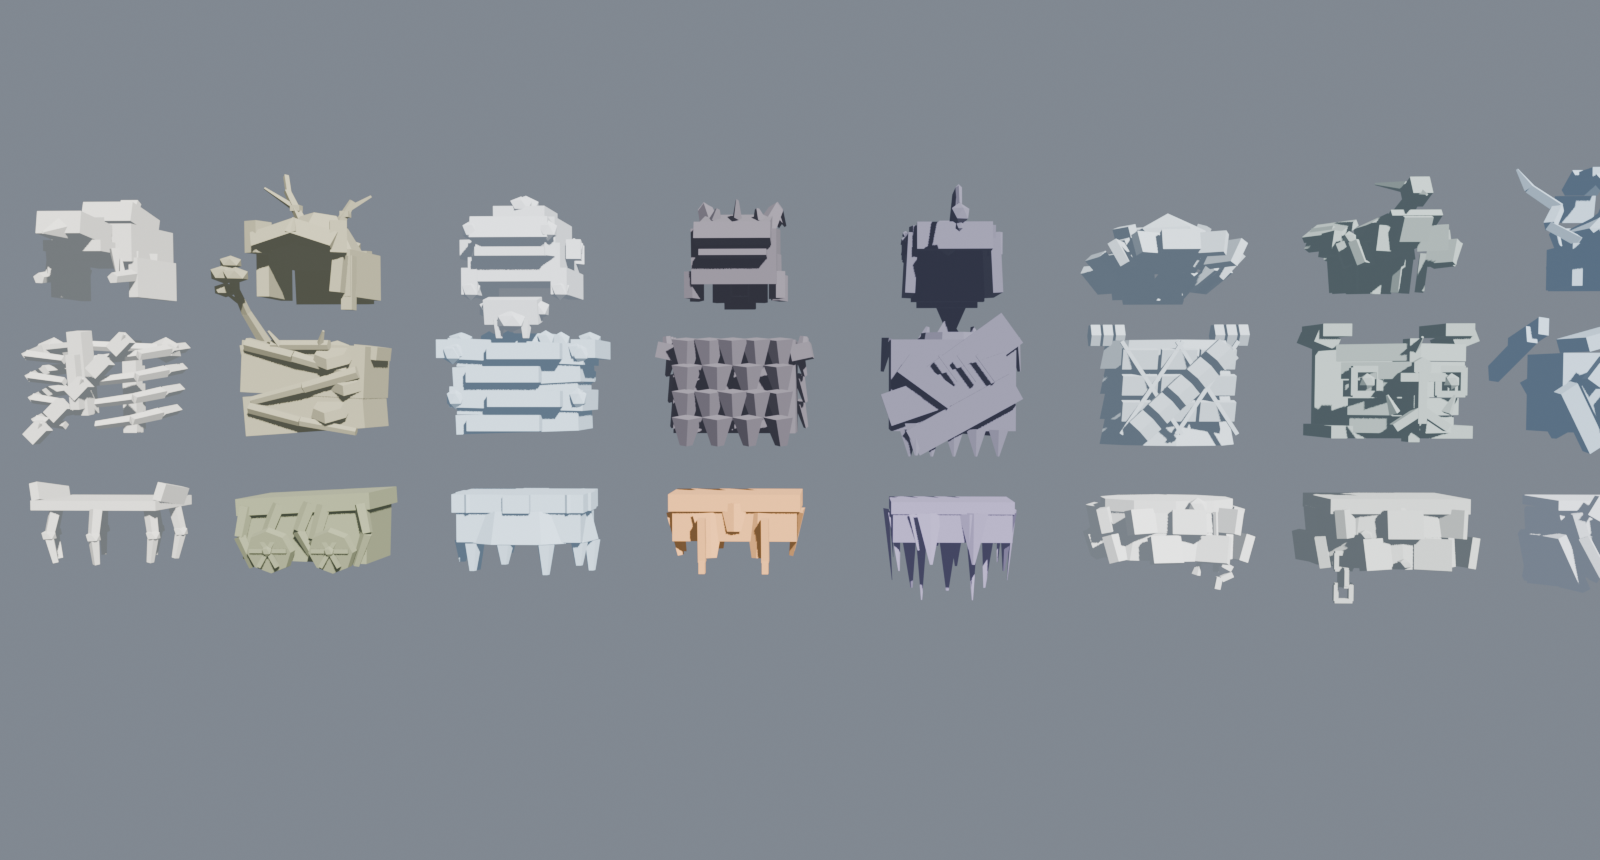
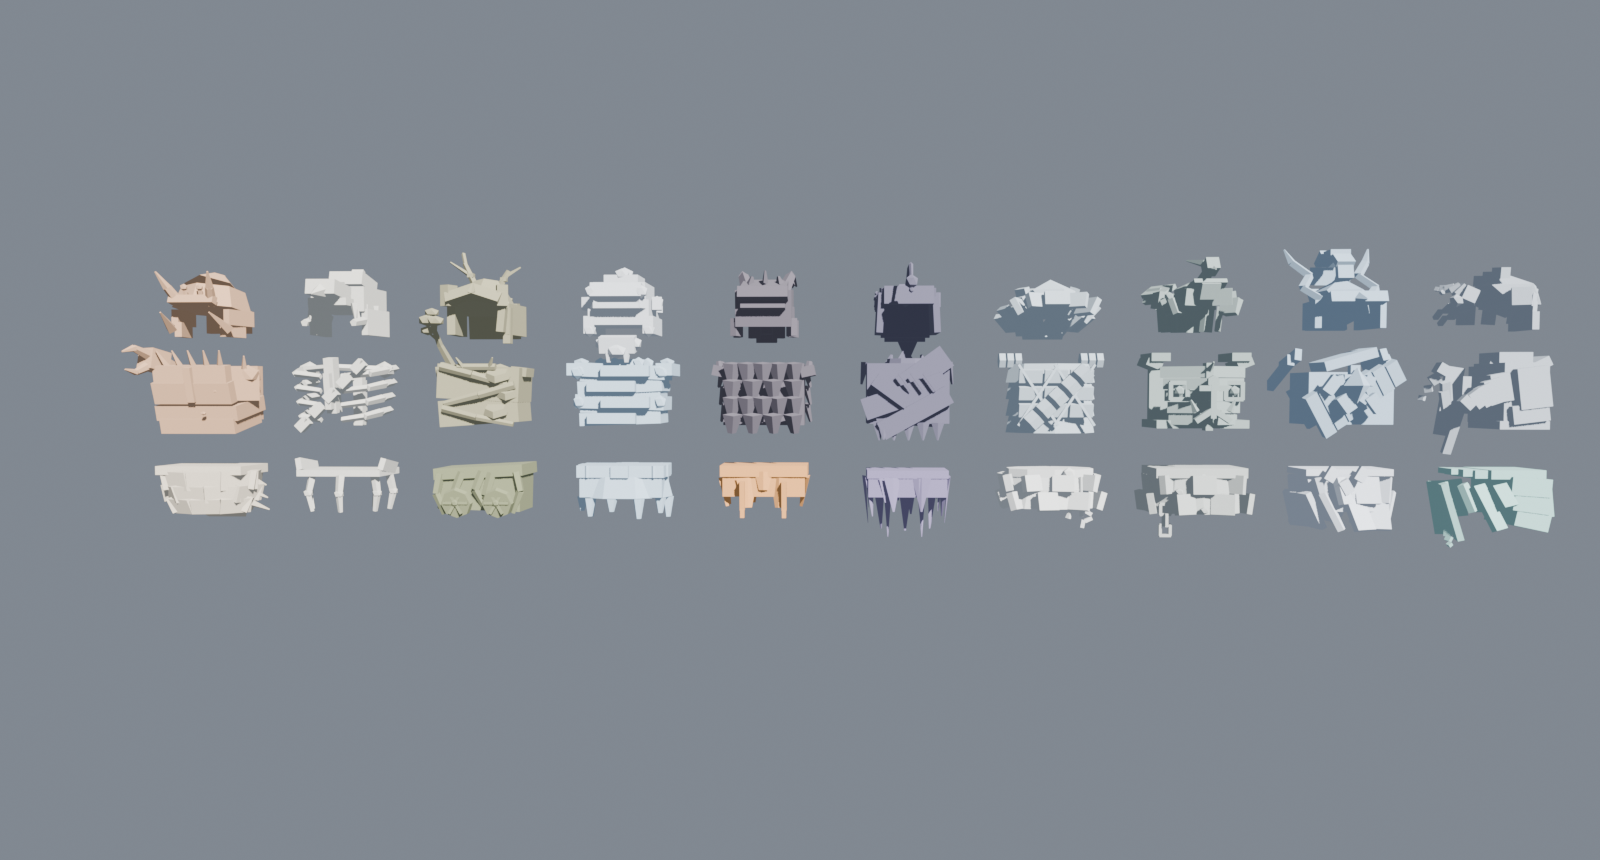
Armor: one canonical face box (measured, enforced) and a preview that shows all ten sets
Two follow-ups from the 10-set revamp, both in the contract owner's lane;
armor.glb is untouched (the rebuild came out byte-identical).

FACE BOX. Three different clearance rules were floating around and no set
satisfied all of them. Rather than pick by taste, measured the pack: every
one of the ten helms puts its front geometry in z 0.02..0.30 - a brow
overhang ABOVE the head's midline - and leaves the nose, mouth and chin as
open air. So the canonical rule is a midline rule, not an eye-band rule:
nothing solid where y <= -0.52, |x| <= 0.40, and -0.60 <= z <= 0.00.
Crests, brow facets and hanging lures above the line are explicitly fine
(they shade the face, which reads well); a plate crossing down over the
nose is not; cheek guards outboard of the central band and gorgets hanging
below the head are unaffected. check_faces() enforces it at build time -
it prints and does not throw, so a work-in-progress set still exports.

Conformance today: nine of ten clear. Stormcaller_Helm has ONE vert 0.10
below the line at (-0.2, -0.56, -0.1) - a hair of chin strap, worth a
nudge next time that set is open, not worth a rebuild.

PREVIEW FRAMING. Ten columns at 3.6-stud spacing span +/-16.2 studs while
lens 28 at 21 studs saw only +/-13.5, so the committed preview never
showed the outer sets. Now lens 23 at 26 studs; all ten columns and all
three rows are in frame.

Changed region(s): [[0.0, 0.1814, 1.0, 0.6953], [0.0, 0.3023, 0.0312, 0.3326]]

diff --git a/assets/armor_gen.py b/assets/armor_gen.py
@@ -29,9 +29,28 @@
 #     origin, a chest wraps a 2.0 x 1.6 x 1.0 UpperTorso, and the legs ring
 #     wraps a 2.0-wide hip line. (Blocky R15 reference sizes; slim avatars
 #     just wear it a little loose, like every Roblox armor.)
-#   - Pieces must stay CLEAR of the face (front of the head below its middle)
-#     and the arms' swing arc (nothing solid further out than x = +/-1.35 at
-#     shoulder height).
+#   - Pieces must stay CLEAR of the arms' swing arc (nothing solid further
+#     out than x = +/-1.35 at shoulder height) and of THE FACE BOX below.
+#
+#     THE FACE BOX (canonical - this is the ONE definition; three different
+#     ones were floating around after the 10-set revamp). In authored space,
+#     with the head a 1.2-stud cube at the origin and the face looking down
+#     -Y, nothing solid may sit inside ALL of:
+#
+#         y <= -0.52          at or in front of the face plane
+#         |x| <= 0.40         the central band only - cheeks stay fair game
+#         -0.60 <= z <= 0.00  the head's lower half, chin to midline
+#
+#     It is a midline rule, not an eye-band rule, because that is what all
+#     ten sets already do: measured across the pack, every helm's front
+#     geometry sits in z 0.02..0.30 - a BROW OVERHANG above the midline, with
+#     the nose, mouth and chin left as open air. So crests, brow facets and
+#     hanging lures above the line are explicitly fine (they shade the face,
+#     which reads well); a plate crossing down over the nose is not.
+#     Cheek/jaw guards outboard of |x| = 0.40, anything behind the face
+#     plane, and gorgets/scarves hanging below the head (z < -0.60, off the
+#     face entirely) are all unaffected. check_faces() enforces it at build time - it
+#     prints and does not throw, so a work-in-progress set still exports.
 #   - Flat shading everywhere, matching the island and the other packs.
 #
 # Colours here are only for the preview; in game ArmorService recolours per
@@ -1060,6 +1079,27 @@ def build_duskveil_legs():
     return finish("Duskveil_Legs", bm, DUSK_SILK)
 
 
+def check_faces(objects):
+    """Enforce the header's FACE BOX. Prints offenders; never throws, so a
+    half-built set still exports and can be looked at."""
+    offenders = {}
+    for obj in objects:
+        if not obj.name.endswith("_Helm"):
+            continue
+        for vert in obj.data.vertices:
+            x, y, z = vert.co
+            if y <= -0.52 and abs(x) <= 0.40 and -0.60 <= z <= 0.00:
+                entry = offenders.setdefault(obj.name, [0, None])
+                entry[0] += 1
+                if entry[1] is None or y < entry[1][1]:
+                    entry[1] = (round(x, 2), round(y, 2), round(z, 2))
+    if not offenders:
+        print("FACE BOX: clear - every helm leaves the face open below the brow")
+        return
+    for name, (count, worst) in sorted(offenders.items()):
+        print("FACE BOX VIOLATION: %s has %d vert(s) below the brow line, deepest at %s" % (name, count, worst))
+
+
 # ---------------------------------------------------------------- registry
 
 
@@ -1631,6 +1671,7 @@ def build_all():
     for _prefix, builders in SETS.items():
         for builder in builders:
             objects.append(builder())
+    check_faces(objects)
     return objects
 
 
@@ -1670,9 +1711,9 @@ def render_preview(path, objects):
     sun.rotation_euler = (math.radians(55), 0, math.radians(30))
     bpy.context.collection.objects.link(sun)
     cam_data = bpy.data.cameras.new("Cam")
-    cam_data.lens = 28
+    cam_data.lens = 23
     cam = bpy.data.objects.new("Cam", cam_data)
-    cam.location = Vector((0.0, -21.0, 1.9))
+    cam.location = Vector((0.0, -26.0, 1.9))
     cam.rotation_euler = (math.radians(88), 0, math.radians(2))
     bpy.context.collection.objects.link(cam)
     bpy.context.scene.camera = cam
